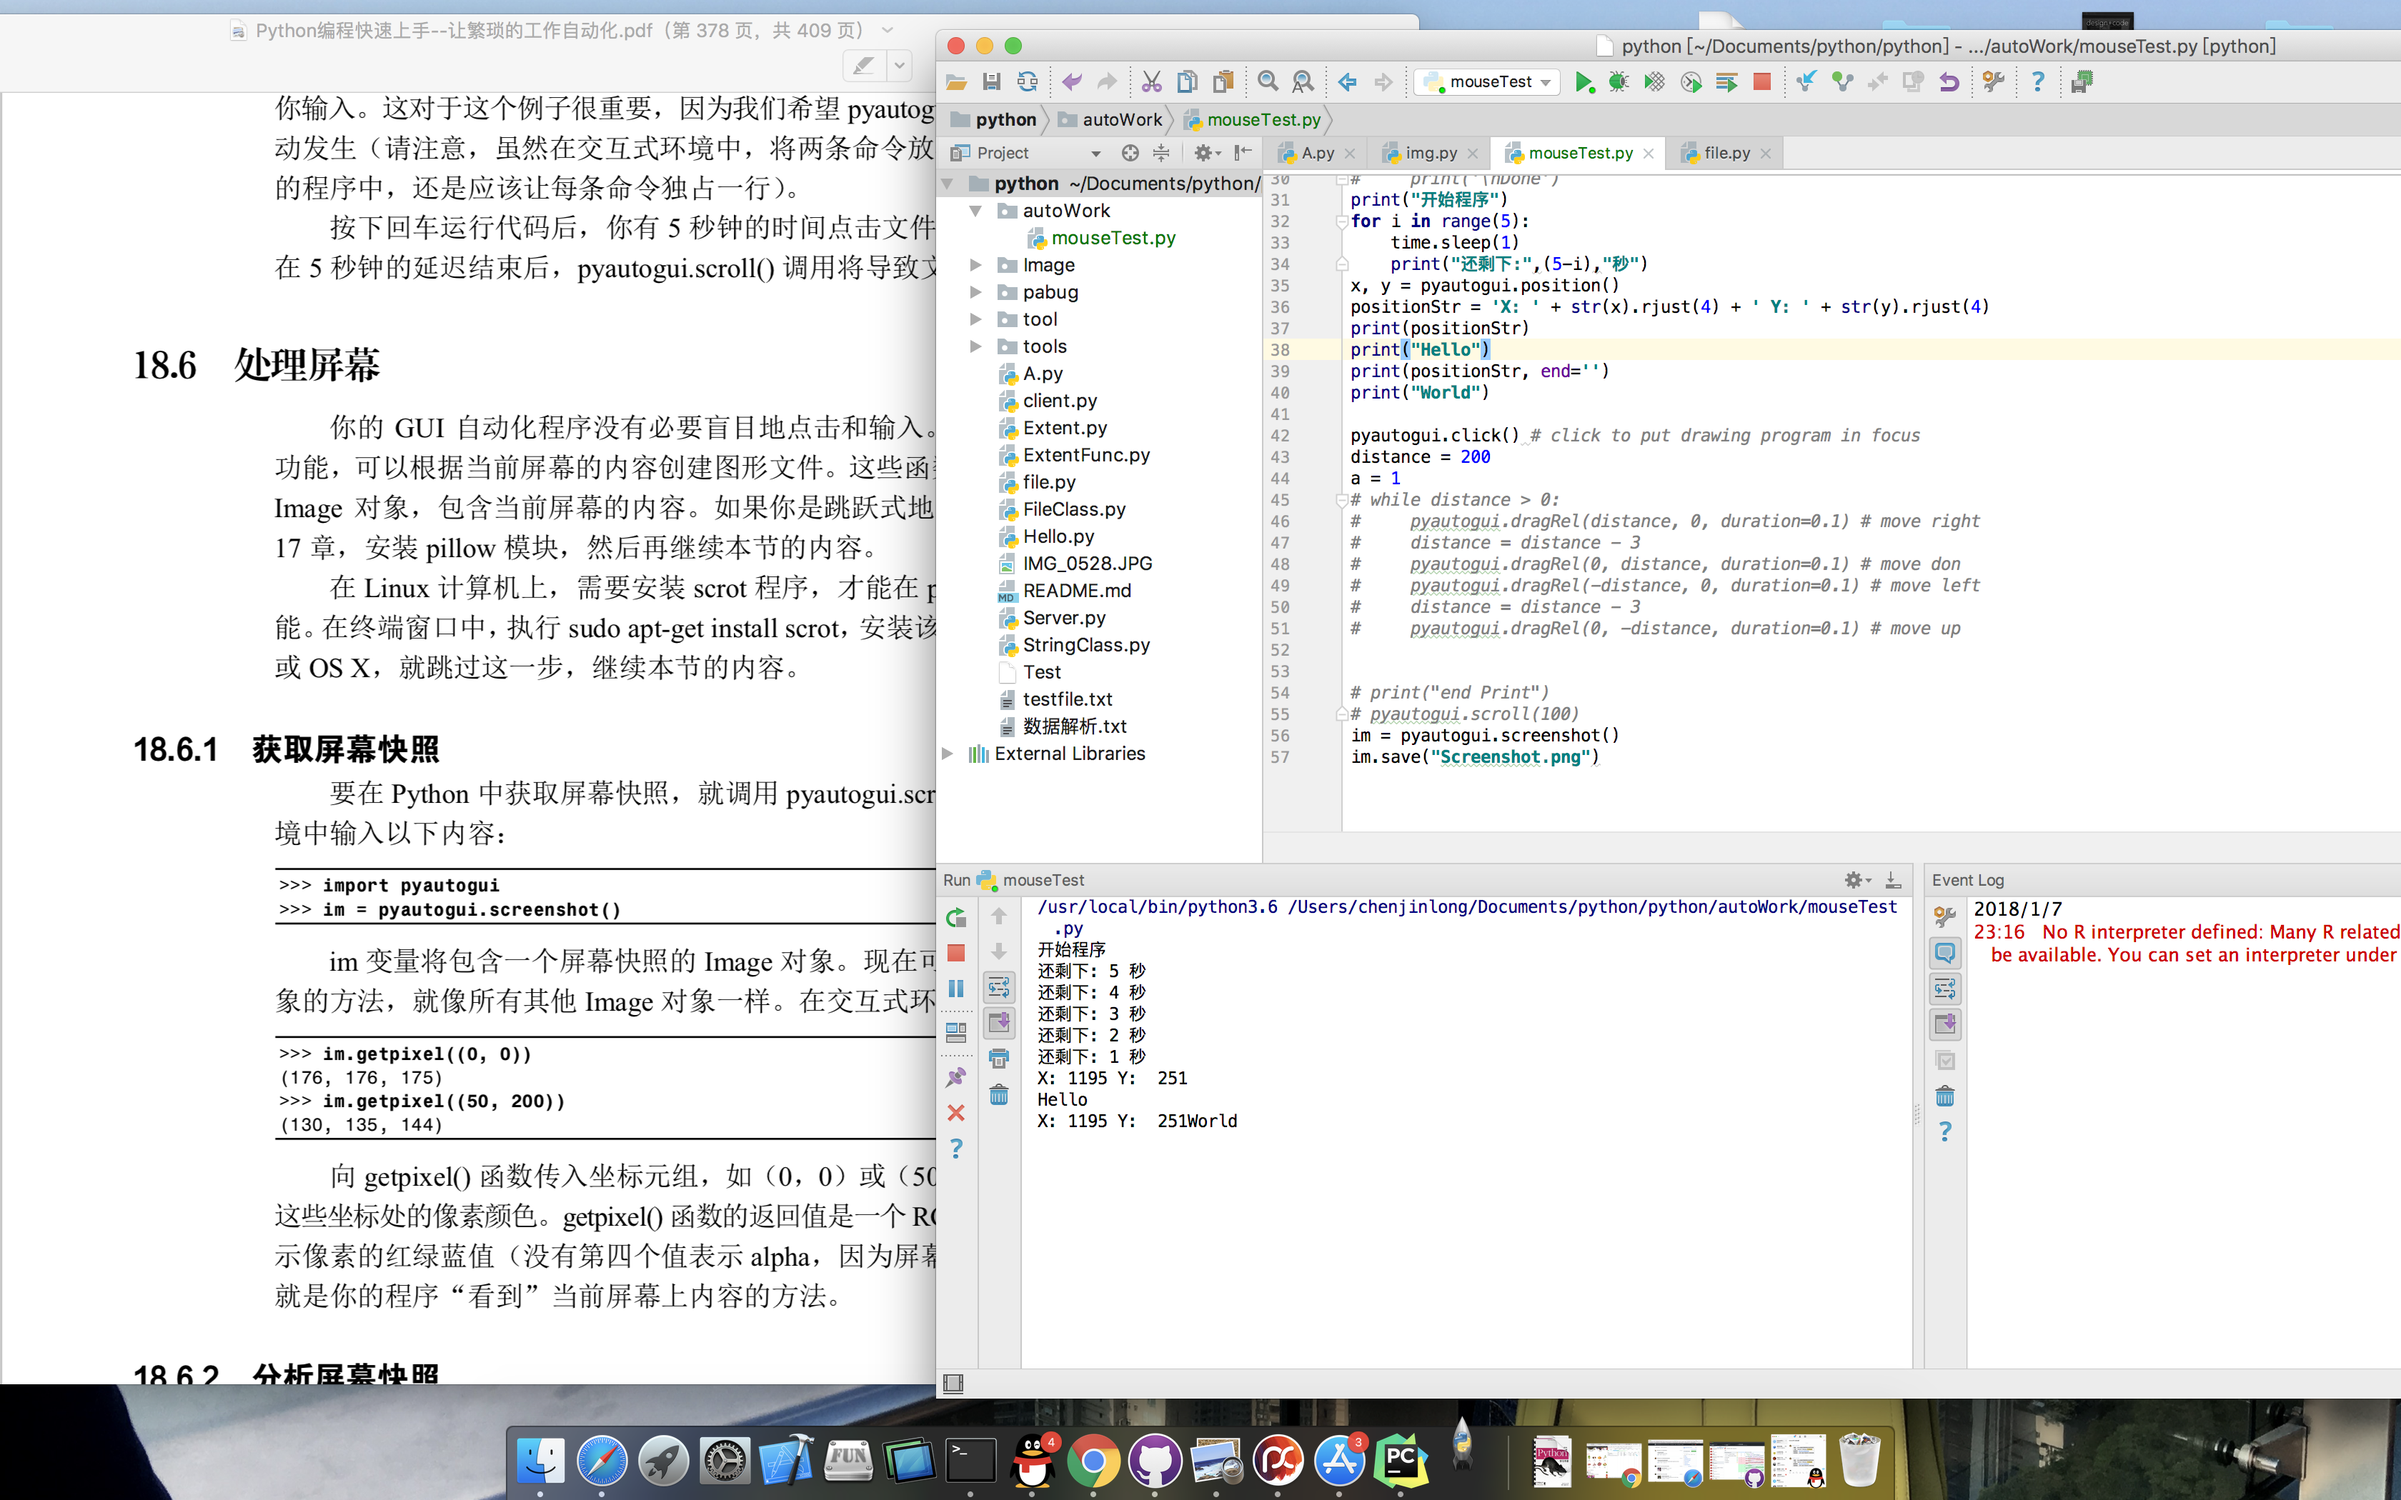
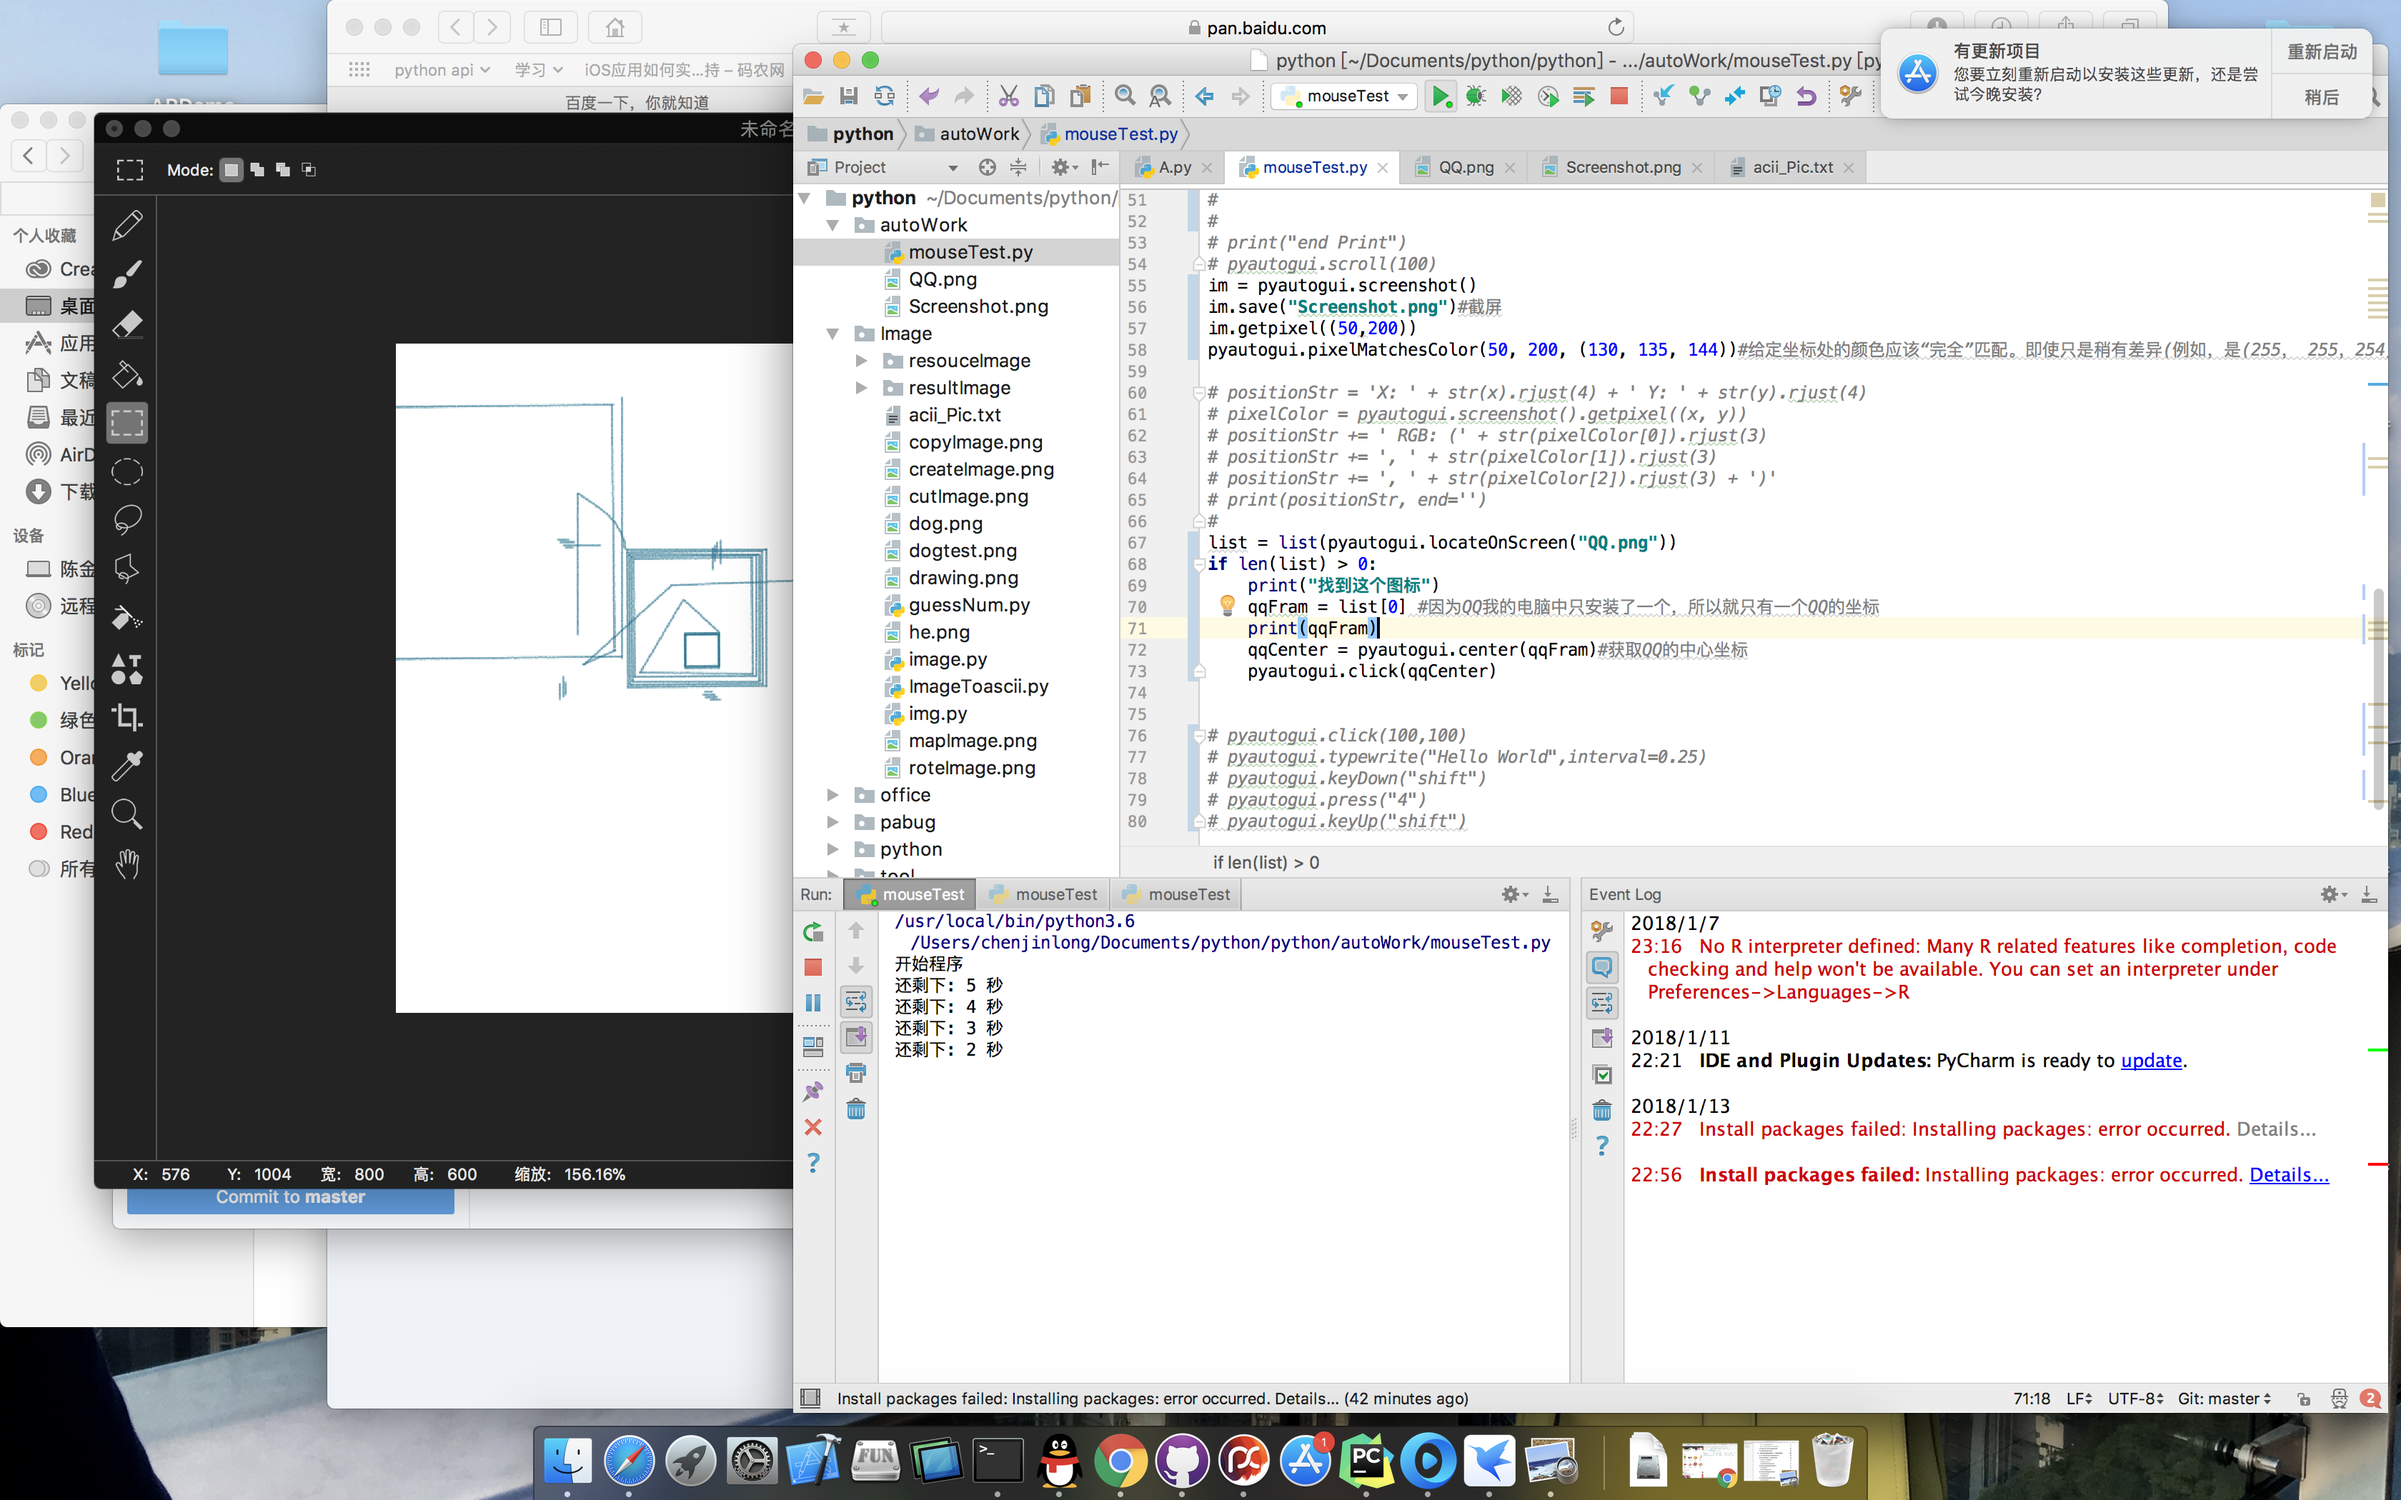
add
add

diff --git a/autoWork/mouseTest.py b/autoWork/mouseTest.py
@@ -29,13 +29,13 @@ pyautogui.size()
 # except KeyboardInterrupt:
 #     print('\nDone')
 print("开始程序")
-# for i in range(5):
-#     time.sleep(1)
-#     print("还剩下:",(5-i),"秒")
-# pyautogui.position() #获取当前鼠标位置
-# x, y = pyautogui.position()
-# positionStr = 'X: ' + str(x).rjust(4) + ' Y: ' + str(y).rjust(4)
-# print(positionStr, end='')
+for i in range(5):
+    time.sleep(1)
+    print("还剩下:",(5-i),"秒")
+pyautogui.position() #获取当前鼠标位置
+x, y = pyautogui.position()
+positionStr = 'X: ' + str(x).rjust(4) + ' Y: ' + str(y).rjust(4)
+print(positionStr, end='')
 # print("World")
 
 # pyautogui.click() # click to put drawing program in focus
@@ -48,14 +48,14 @@ print("开始程序")
 #     pyautogui.dragRel(-distance, 0, duration=0.1) # move left
 #     distance = distance - 3
 #     pyautogui.dragRel(0, -distance, duration=0.1) # move up
-
-
+#
+#
 # print("end Print")
 # pyautogui.scroll(100)
-# im = pyautogui.screenshot()
-# im.save("Screenshot.png")#截屏
-# im.getpixel((50,200))
-# pyautogui.pixelMatchesColor(50, 200, (130, 135, 144))#给定坐标处的颜色应该“完全”匹配。即使只是稍有差异(例如，是(255， 255，254)而不是(255，255，255))，那么函数也会返回 False。
+im = pyautogui.screenshot()
+im.save("Screenshot.png")#截屏
+im.getpixel((50,200))
+pyautogui.pixelMatchesColor(50, 200, (130, 135, 144))#给定坐标处的颜色应该“完全”匹配。即使只是稍有差异(例如，是(255， 255，254)而不是(255，255，255))，那么函数也会返回 False。
 
 # positionStr = 'X: ' + str(x).rjust(4) + ' Y: ' + str(y).rjust(4)
 # pixelColor = pyautogui.screenshot().getpixel((x, y))
@@ -64,17 +64,17 @@ print("开始程序")
 # positionStr += ', ' + str(pixelColor[2]).rjust(3) + ')'
 # print(positionStr, end='')
 #
-# list = list(pyautogui.locateOnScreen("QQ.png"))
-# if len(list) > 0:
-#     print("找到这个图标")
-#     qqFram = list[0] #因为QQ我的电脑中只安装了一个，所以就只有一个QQ的坐标
-#     print(qqFram)
-#     qqCenter = pyautogui.center(qqFram)#获取QQ的中心坐标
-#     pyautogui.click(qqCenter)
+list = list(pyautogui.locateOnScreen("QQ.png"))
+if len(list) > 0:
+    print("找到这个图标")
+    qqFram = list[0] #因为QQ我的电脑中只安装了一个，所以就只有一个QQ的坐标
+    print(qqFram)
+    qqCenter = pyautogui.center(qqFram)#获取QQ的中心坐标
+    pyautogui.click(qqCenter)
 
 
-pyautogui.click(100,100)
-pyautogui.typewrite("Hello World",interval=0.25)
-pyautogui.keyDown("shift")
-pyautogui.press("4")
-pyautogui.keyUp("shift")
+# pyautogui.click(100,100)
+# pyautogui.typewrite("Hello World",interval=0.25)
+# pyautogui.keyDown("shift")
+# pyautogui.press("4")
+# pyautogui.keyUp("shift")

diff --git a/Image/image.py b/Image/image.py
@@ -1,5 +1,5 @@
 from PIL import ImageColor
-from PIL import Image,ImageDraw,ImageFont
+from PIL import Image,ImageDraw,ImageFont,ImageFilter
 import os
 b = ImageColor.getcolor('Red','RGBA')
 # print(b)
@@ -47,3 +47,26 @@ draw.text((20, 150), 'Hello', fill='purple')
 draw.text((100, 150), 'Howdy', fill='gray')
 im.save("drawing.png")
 # http://blog.csdn.net/xiaodangshan/article/details/64540157
+
+#指定图片存放位置
+imagePath = "/Users/chenjinlong/Desktop/downloadImage"
+
+im = Image.open('he.png')
+# 高斯模糊
+im.filter(ImageFilter.GaussianBlur).save(r'/Users/chenjinlong/Desktop/downloadImage/GaussianBlur.png')
+# 普通模糊
+im.filter(ImageFilter.BLUR).save(r'/Users/chenjinlong/Desktop/downloadImage/BLUR.png')
+# 边缘增强
+im.filter(ImageFilter.EDGE_ENHANCE).save(r'/Users/chenjinlong/Desktop/downloadImage/EDGE_ENHANCE.png')
+# 找到边缘
+im.filter(ImageFilter.FIND_EDGES).save(r'/Users/chenjinlong/Desktop/downloadImage/FIND_EDGES.png')
+# 浮雕
+im.filter(ImageFilter.EMBOSS).save(r'/Users/chenjinlong/Desktop/downloadImage/EMBOSS.png')
+# 轮廓
+im.filter(ImageFilter.CONTOUR).save(r'/Users/chenjinlong/Desktop/downloadImage/CONTOUR.png')
+# 锐化
+im.filter(ImageFilter.SHARPEN).save(r'/Users/chenjinlong/Desktop/downloadImage/SHARPEN.png')
+# 平滑
+im.filter(ImageFilter.SMOOTH).save(r'/Users/chenjinlong/Desktop/downloadImage/SMOOTH.png')
+# 细节
+im.filter(ImageFilter.DETAIL).save(r'/Users/chenjinlong/Desktop/downloadImage/DETAIL.png')

diff --git a/pabug/downloadBaiduImage.py b/pabug/downloadBaiduImage.py
@@ -1,0 +1,18 @@
+#-*-coding:utf-8-* print("end Print")
+from icrawler.builtin import BaiduImageCrawler
+from pathlib import Path
+#指定图片存放位置
+imagePath = "/Users/chenjinlong/Desktop/downloadImage"
+f = Path(imagePath)
+#指定要搜索的关键字列表
+keywords = ["速度与激情8","再见前任","芳华","西游记女儿国","大世界","妖猫传"]
+for keyword in keywords:
+    #创建以关键字命名的文件夹
+    destFolder = f.joinpath(keyword)
+    try:
+        f.mkdir(777,keyword)
+    except FileExistsError:
+        print("file existed already!")
+    #调用模块下载图片
+    baidu_crawler = BaiduImageCrawler(storage={"root_dir":str(destFolder)})
+    baidu_crawler.crawl(keyword=keyword,offset=0,max_num=10,min_size=0,max_size=0)
